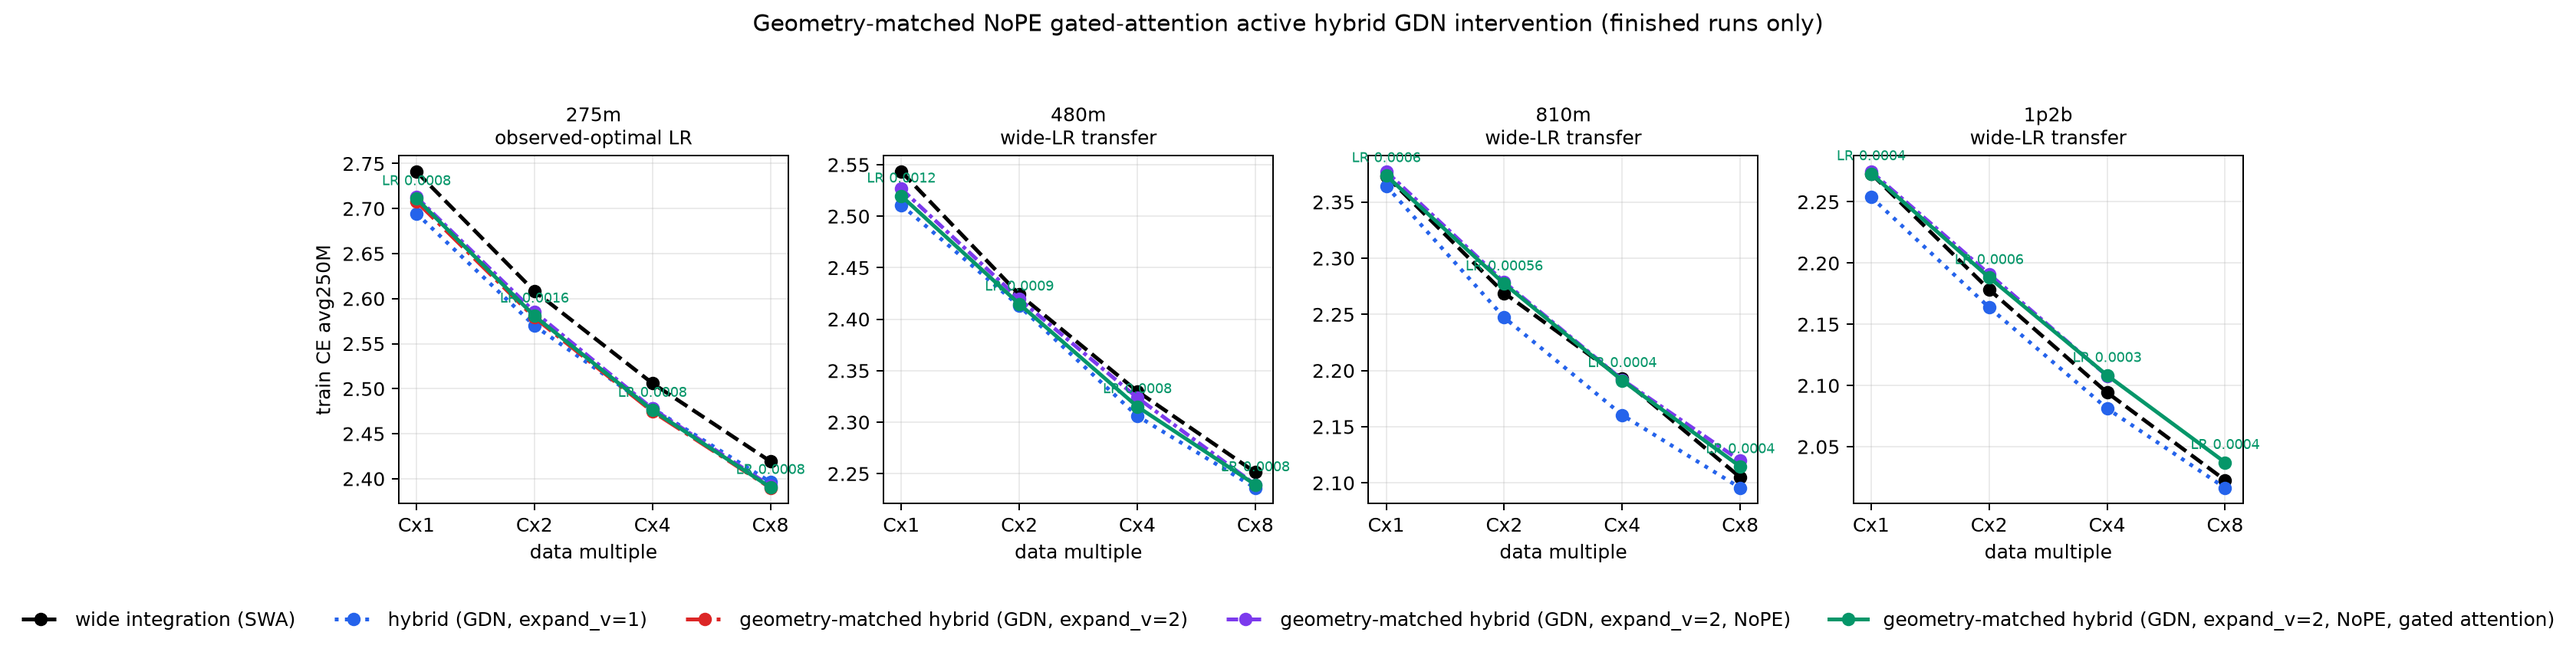
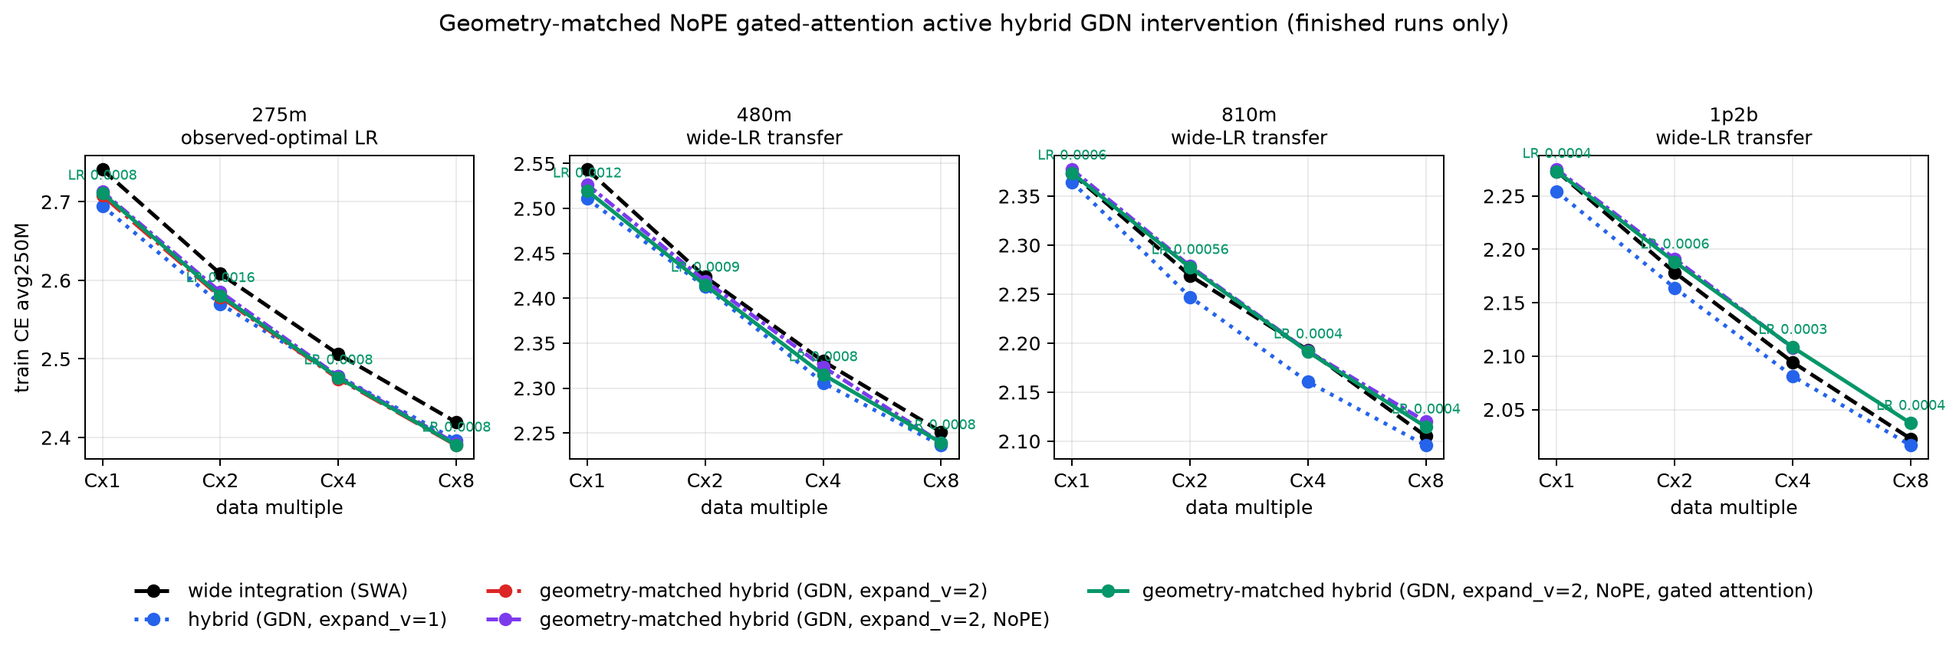
Wrap scale plot legends

diff --git a/src/scripts/train/jacobm_olmoe_ladder/v2/plot_pretraining_wave.py b/src/scripts/train/jacobm_olmoe_ladder/v2/plot_pretraining_wave.py
@@ -934,7 +934,14 @@ def plot_fixed_lr_scale_comparison(
     handles, labels = axes[0][0].get_legend_handles_labels()
     legend_rows = 1
     if handles:
-        legend_columns = min(len(handles), 2 if len(models) == 1 else len(handles))
+        if len(models) == 1:
+            legend_columns = min(len(handles), 2)
+        elif len(handles) > 4:
+            # Keep variant-heavy scale plots from expanding horizontally just
+            # to fit a single long legend row.
+            legend_columns = math.ceil(len(handles) / 2)
+        else:
+            legend_columns = len(handles)
         legend_rows = math.ceil(len(handles) / legend_columns)
         fig.legend(
             handles,

diff --git a/src/scripts/train/jacobm_olmoe_ladder/v2/results/pretraining/geometry_gdn_ev2_nope_gated/results.md b/src/scripts/train/jacobm_olmoe_ladder/v2/results/pretraining/geometry_gdn_ev2_nope_gated/results.md
@@ -1,6 +1,6 @@
 # Geometry-matched NoPE gated-attention active hybrid GDN intervention
 
-Generated: `2026-07-22T16:20:09.035517+00:00`
+Generated: `2026-07-22T16:41:25.581821+00:00`
 
 Selection metric: final `250M`-token mean training CE. Only finished runs are eligible.
 The optimal-LR summary includes only bracketed 275M sweeps with a valid quadratic fit.

diff --git a/src/scripts/train/jacobm_olmoe_ladder/v2/results/pretraining/geometry_gdn_ev2_rope_gated/results.md b/src/scripts/train/jacobm_olmoe_ladder/v2/results/pretraining/geometry_gdn_ev2_rope_gated/results.md
@@ -1,6 +1,6 @@
 # Geometry-matched RoPE gated-attention active hybrid GDN intervention
 
-Generated: `2026-07-22T16:28:29.486930+00:00`
+Generated: `2026-07-22T16:43:24.236368+00:00`
 
 Selection metric: final `250M`-token mean training CE. Only finished runs are eligible.
 The optimal-LR summary includes only bracketed 275M sweeps with a valid quadratic fit.
